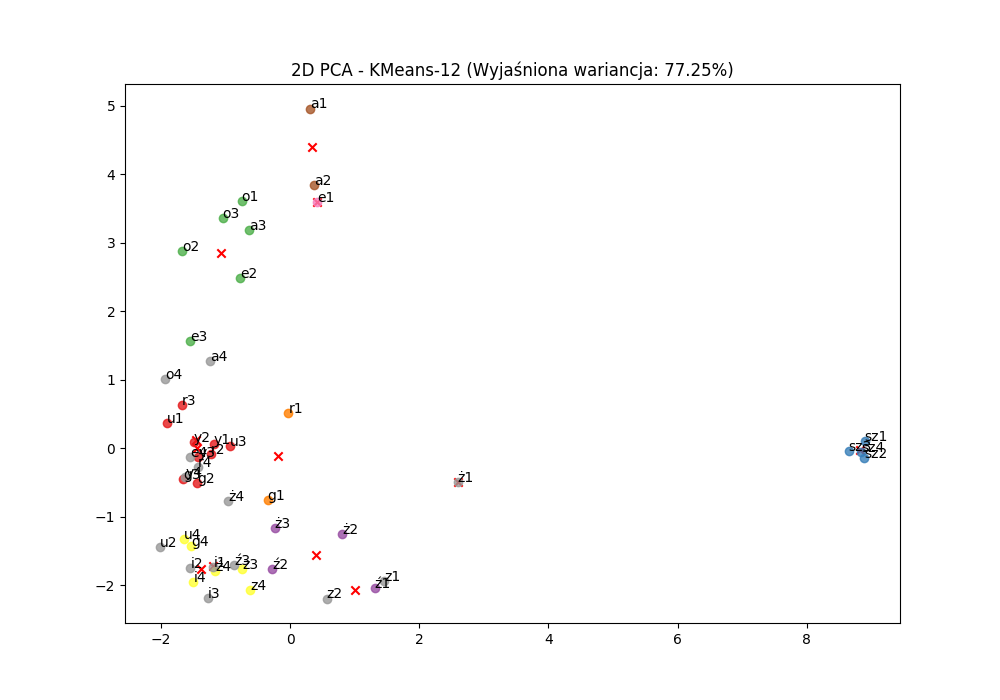
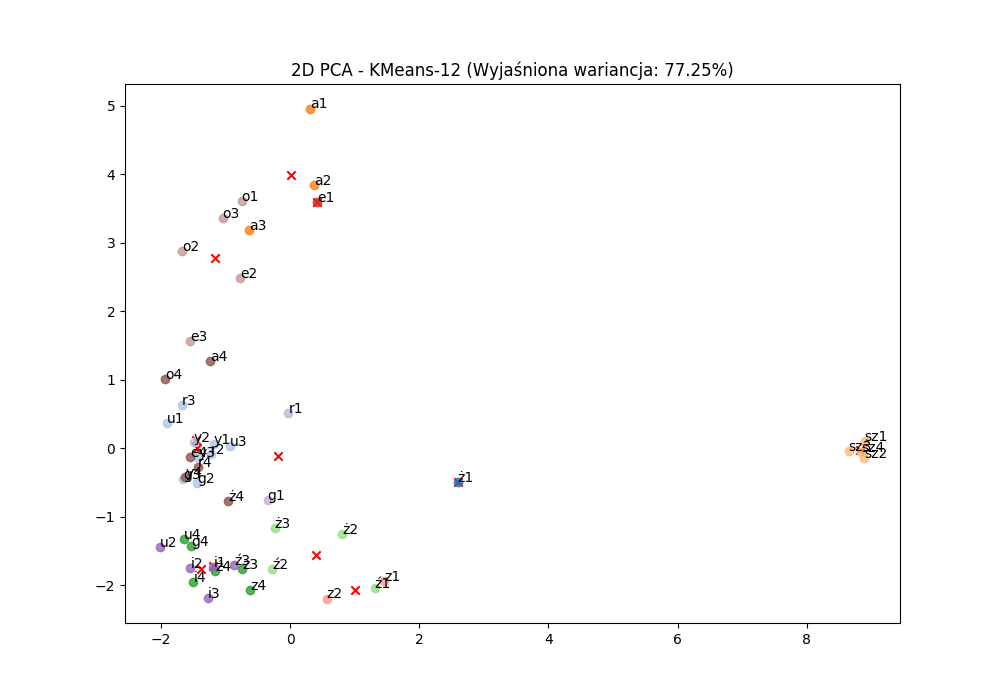
dbscan not working

diff --git a/exercise-11-clusters/2d-3d-more-exploration.py b/exercise-11-clusters/2d-3d-more-exploration.py
@@ -1,0 +1,69 @@
+import matplotlib
+import numpy as np
+from pandas import DataFrame
+from sklearn.decomposition import PCA
+import matplotlib.pyplot as plt
+import dataset as ds
+from scipy.cluster.hierarchy import dendrogram
+from sklearn.datasets import load_iris
+from sklearn.cluster import AgglomerativeClustering, KMeans, DBSCAN
+
+def main():
+  dataset: DataFrame = ds.load("cluster-contspeech")
+  X, y = dataset.values[:, :-1], dataset.values[:, -1].astype(int)
+  # X = np.log(X)
+
+  pca_2d = PCA(n_components=2)
+  values_2d = pca_2d.fit_transform(X)
+  explained_variance_2d = sum(pca_2d.explained_variance_ratio_)
+
+  # plt.figure(figsize=(10, 7))
+
+  vowels = "a-e-i-o-u-y-sz-z-ź-ż-g-r".split('-')
+  labels = [
+    f"{vowels[mod]}{div}"
+    for value in y
+    for (div, mod) in [divmod(value, 100)]
+  ]
+
+  # k = 2
+  # plt.title(f'2D KMeans=2 Log - (Wyjaśniona wariancja: {explained_variance_2d:.2%})')
+
+  # k_means = KMeans(init='k-means++', n_clusters=k, n_init=10)
+  # k_means.fit(X)
+
+  # clustercenters_trans = pca_2d.transform(k_means.cluster_centers_)
+  #
+  # plt.scatter(clustercenters_trans[:, 0], clustercenters_trans[:, 1], marker='x', color='red')
+  #
+  # unique_labels = set(k_means.labels_)
+  # color_map = matplotlib.colormaps['tab20']
+  #
+  # for label in unique_labels:
+  #   print(label)
+  #   cluster = pca_2d.transform(X[k_means.labels_ == label])
+  #   plt.scatter(cluster[:, 0], cluster[:, 1], c=[color_map(label)], alpha=0.5)
+
+  # plt.show()
+
+  db = DBSCAN(eps=0.15)
+  db.fit(values_2d)
+
+  plt.figure(figsize=(10, 7))
+
+  plt.title(f'2D DBSCAN - (Wyjaśniona wariancja: {explained_variance_2d:.2%})')
+
+  unique_labels = set(db.labels_)
+  print(db.labels_)
+  color_map = matplotlib.colormaps['tab20']
+
+  for label in unique_labels:
+    print(label)
+    cluster = pca_2d.transform(X[db.labels_ == label])
+    plt.scatter(cluster[:, 0], cluster[:, 1], c=[color_map(label)], alpha=0.5)
+
+  plt.show()
+
+
+if __name__ == '__main__':
+  main()

diff --git a/exercise-11-clusters/clusters.py b/exercise-11-clusters/clusters.py
@@ -41,7 +41,7 @@ def main():
   plt.scatter(clustercenters_trans[:, 0], clustercenters_trans[:, 1], marker='x', color='red')
 
   unique_labels = set(k_means.labels_)
-  color_map = matplotlib.colormaps['Set1']
+  color_map = matplotlib.colormaps['tab20']
 
   for label in unique_labels:
     cluster = pca_2d.transform(X[k_means.labels_ == label])
